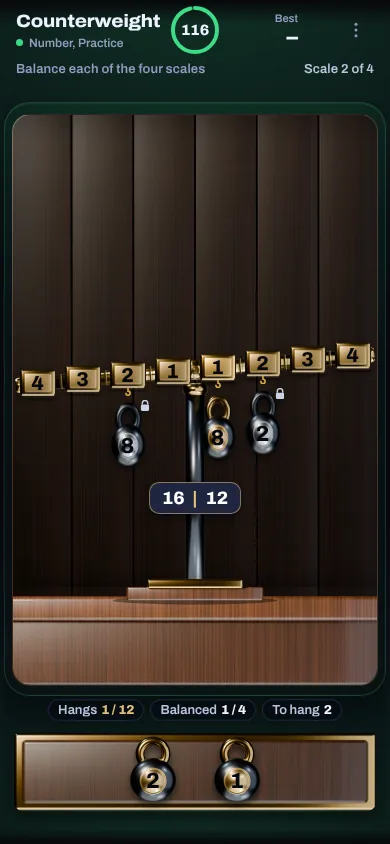
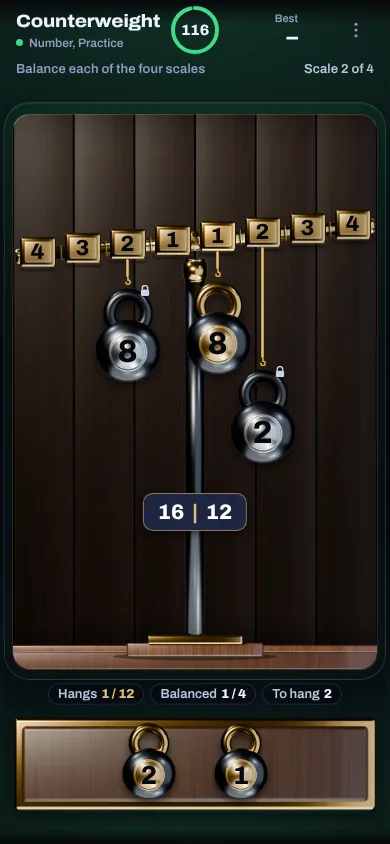
Number overhaul: Counterweight and Operator fill their space; layout pass in progress (snapshot)
Claude-Session: https://claude.ai/code/session_011WK1FfecY6GY7JmXnDQco7

Changed region(s): [[0.0308, 0.1232, 0.9846, 0.9858]]

diff --git a/src/puzzles/numline.tsx b/src/puzzles/numline.tsx
@@ -236,11 +236,11 @@ interface TapeGeom {
  * A live round's sizes (the Number overhaul's layout pass, Joe 15 Nov 2026): the line is the big element, a tall,
  * clear ruler with bold end labels and a big pin, and the number card above it small and compact. `arenaH` is the
  * arena's height; the card, the caption over it and the gaps take `NUMLINE_CARD_H` + 56 of it, the line box the rest (within
- * 250–380; the group is centred in the arena). Intros and demos keep their older sizes (140 high, a 24 px tape), so recorded touches still land.
+ * 250–520, so the card and line fill the arena; the group is centred). Intros and demos keep their older sizes (140 high, a 24 px tape), so recorded touches still land.
  */
 export const NUMLINE_CARD_H = 56;
 export function numlineLiveSizes(arenaH: number) {
-  const lineH = Math.max(250, Math.min(380, Math.round(arenaH - NUMLINE_CARD_H - 56)));
+  const lineH = Math.max(250, Math.min(520, Math.round(arenaH - NUMLINE_CARD_H - 56)));
   // The tape thickens with the room it has (72 to 92 px), the end labels with it.
   const t = Math.max(72, Math.min(92, Math.round(lineH * 0.24)));
   const label = t >= 84 ? 40 : 36;
@@ -248,8 +248,17 @@ export function numlineLiveSizes(arenaH: number) {
     lineH,
     t,
     label,
-    /** The tape's centre, a share of the box: under it the end labels, above it the pins and their labels. */
-    yShare: (lineH - (t / 2 + 8 + label + 12)) / lineH,
+    /**
+     * The tape's centre, a share of the box: above it the pins and their labels (the live pin's head and three levels
+     * of placed labels), under it the end labels; the three together sit centred in the box, so any spare height is
+     * shared above the pins and below the labels.
+     */
+    yShare: (() => {
+      const above = 88 + 2 * 24 + 24;
+      const below = t / 2 + 8 + label + 12;
+      const margin = Math.max(0, (lineH - (above + t / 2 + below)) / 2);
+      return (lineH - below - margin) / lineH;
+    })(),
     pinR: 24,
     pinRise: 88,
     placedR: 13,
@@ -293,40 +302,44 @@ export function Line({
       style={{ display: "block", overflow: "visible", ...svgStyle }}
     >
       <TapeDefs id={id} />
-      {/* The Number overhaul: the rendered satin-steel rule (docs/design/number-overhaul/source/numline.py), stretched
-          to the tape; the sprite is 360 x 36 points with the rule's body 6–30 down, so the image runs t / 24 · 36 tall. */}
-      <image
-        href={numberArt("numline", "ruler")}
-        x={left}
-        y={y - t / 2 - (6 * t) / 24}
-        width={right - left}
-        height={(36 * t) / 24}
-        preserveAspectRatio="none"
-      />
+      {/* The Number overhaul: the rendered ruler (docs/design/number-overhaul/source/numline.py), a flat bar the tape's
+          thickness tall: a dark enamel face between polished chrome edges and end caps. Drawn in three slices so only
+          the plain middle stretches, sideways; the caps keep their shape (24 x 80 points scaled to the tape). */}
+      {(() => {
+        const cap = (24 * t) / 80;
+        const top = y - t / 2;
+        return (
+          <g data-numline-ruler>
+            <image href={numberArt("numline", "ruler-m")} x={left + cap - 0.5} y={top} width={Math.max(0, right - left - 2 * cap + 1)} height={t} preserveAspectRatio="none" />
+            <image href={numberArt("numline", "ruler-l")} x={left} y={top} width={cap} height={t} preserveAspectRatio="none" />
+            <image href={numberArt("numline", "ruler-r")} x={right - cap} y={top} width={cap} height={t} preserveAspectRatio="none" />
+          </g>
+        );
+      })()}
       {minor > 0
         ? Array.from({ length: minor - 1 }, (_, i) => (i + 1) / minor).map((share) => (
             <line
               key={`m${share}`}
               data-numline-minor
               x1={x(share)}
-              y1={y - t / 2 + t * (share === 0.5 ? 0.18 : 0.3)}
+              y1={y - t / 2 + t * 0.14}
               x2={x(share)}
-              y2={y + t / 2 - t * (share === 0.5 ? 0.18 : 0.3)}
-              stroke="#14151a"
-              strokeOpacity={0.9}
+              y2={y - t / 2 + t * (share === 0.5 ? 0.6 : 0.4)}
+              stroke={share === 0.5 ? "var(--jz-gold)" : "var(--jz-white)"}
               strokeWidth={share === 0.5 ? 4 : 3}
+              strokeLinecap="square"
             />
           ))
         : null}
       {tickLabels(stage).map((tick) => (
         <g key={tick.share}>
-          {/* A crisp notch across the tape, continued below it to the label. */}
+          {/* A crisp notch down the ruler's face (white, so it reads on the enamel), continued below it to the label. */}
           <line
             x1={x(tick.share)}
-            y1={y - t / 2 - 3}
+            y1={y - t / 2 + t * 0.14}
             x2={x(tick.share)}
             y2={y + t / 2 + 6}
-            stroke="#14151a"
+            stroke="var(--jz-white)"
             strokeWidth={3}
             strokeLinecap="square"
           />

diff --git a/src/polish-number/equation.css b/src/polish-number/equation.css
@@ -349,9 +349,10 @@
 }
 [data-puzzle-play] [data-number-overhaul] .opg-board > .nov-stage {
   flex: 0 0 auto;
+  align-self: stretch;
 }
-[data-puzzle-play] [data-number-overhaul] .opg-caption {
-  font-size: 15px;
+[data-puzzle-play] [data-number-overhaul] .opg-board > .nov-stage > .opg-equation {
+  align-self: stretch;
 }
 [data-puzzle-play] [data-number-overhaul] .opg-stage-chip {
   width: 56px;

diff --git a/docs/design/number-overhaul/source/numline.py b/docs/design/number-overhaul/source/numline.py
@@ -3,9 +3,10 @@
 Lit as product shots (Joe's clarification, 15 Nov 2026: premium materials need light on them, highlights on curves
 and edges, never washed across a face or a number):
 
-  ruler       a polished chrome rail with rounded ends: a crisp highlight line along its top curve and a fainter one
-              along its underside, the steel reflecting a dark studio between them. The app stretches it to the line's
-              width (it is lit evenly along its length) and draws the bold end labels, the notches and the markers.
+  ruler       a flat ruler bar (360 x 80 points): a dark enamel face, even and clean, between polished bevelled chrome
+              edges and chrome end caps, the crisp highlights only on those; cut into ruler-l, ruler-m and ruler-r so
+              the app stretches only the plain middle, sideways (never vertically), and draws the ticks, end labels
+              and markers.
   card        the number card: deep navy lacquer under a clear coat, its rounded rim catching the light (a bright top
               edge, a soft lower one); the face itself stays dark and clean for the number. Drawn 9-slice by the app.
   pin         the live marker's head: polished champagne gold, a crisp highlight on its upper left.
@@ -51,18 +52,42 @@ def clear_lights():
 
 
 def ruler():
-    """360 x 36 points; the rail's body runs 6–30 down (the app maps that to the tape's thickness)."""
-    setup(360, 36, scale=3, samples=96)
-    world("#06080f", 0.0, hdri="studio.exr", hdri_strength=0.35)
+    """A flat ruler bar, 360 x 80 points at its largest display: a dark enamel face, even and clean so the app's ticks
+    and pins read, between polished bevelled chrome edges top and bottom and chrome end caps; the crisp highlights
+    sit only on those edges and caps. Written whole (ruler.webp) and cut into three slices the app draws so only the
+    plain middle stretches, and only sideways: ruler-l and ruler-r (the end caps, 24 points wide) and ruler-m (a
+    4-point slice of the plain middle)."""
+    setup(360, 80, scale=3, samples=128)
+    world("#06080f", 0.0, hdri="studio.exr", hdri_strength=0.12)
     clear_lights()
-    chrome = mat("chrome", "#d9dde4", 0.12, metal=1.0)
-    add_bump(chrome, 400, 0.01, stretch=(1, 30, 1), distance=0.0004)     # a faint polish grain along the rail
-    xcyl(6, 18, 348, 12, chrome, z=0, bevel=4, verts=96)
-    # A crisp line along the top curve and a softer one under it; a warm glint on the ends from the key.
-    strip(180, -260, 150, (180, 18, 0), 4, 1400, 2600)
-    strip(180, 280, 120, (180, 18, 0), 10, 1400, 700, color="#dbe5ff")
-    area(-40, -80, 120, 40, 260, "#fff4e2", target=(20, 18, 0))
-    write(GAME, "ruler")
+    chrome = mat("chrome", "#dfe3ea", 0.1, metal=1.0)
+    enamel = mat("enamel", "#0c1220", 0.55, coat=0.12, coat_rough=0.35, spec=0.25)
+    add_bump(enamel, 300, 0.006, distance=0.0003)
+    # The face, sunk a little between the edges.
+    box(10, 9, 340, 62, 6, enamel, r=1.5, z=0)
+    # Bevelled chrome edges: rounded rails along the top and the bottom, a little proud of the face.
+    xcyl(8, 8.5, 344, 6, chrome, z=3, bevel=2, verts=64)
+    xcyl(8, 71.5, 344, 6, chrome, z=3, bevel=2, verts=64)
+    # End caps: chrome blocks with bevels across the ends.
+    box(2, 2, 14, 76, 12, chrome, r=4, z=-1)
+    box(344, 2, 14, 76, 12, chrome, r=4, z=-1)
+    # Long lights along the rails: the top rail's upper curve and the bottom rail's lower curve take a crisp line; a
+    # low raking key glints on the caps. Nothing faces the enamel square on.
+    strip(180, -320, 150, (180, 8, 0), 4, 1400, 2400)
+    strip(180, 420, 130, (180, 72, 0), 8, 1400, 900, color="#dbe5ff")
+    area(-30, 40, 40, 16, 120, "#fff4e2", target=(8, 40, 0))
+    area(390, 40, 40, 16, 80, "#dbe5ff", target=(352, 40, 0))
+    # A soft, even fill straight down the face's length, so the enamel reads as a dark surface, not a void.
+    strip(180, 40, 400, (180, 40, 0), 60, 900, 35, color="#c9d4ff")
+    out = write(GAME, "ruler")
+    from PIL import Image
+    im = Image.open(out).convert("RGBA")
+    k = im.height / 80
+    cap, mid = round(24 * k), im.width // 2
+    im.crop((0, 0, cap, im.height)).save(out.replace("ruler.webp", "ruler-l.webp"), "WEBP", quality=88, method=6)
+    im.crop((im.width - cap, 0, im.width, im.height)).save(out.replace("ruler.webp", "ruler-r.webp"), "WEBP", quality=88, method=6)
+    im.crop((mid - round(2 * k), 0, mid + round(2 * k), im.height)).save(out.replace("ruler.webp", "ruler-m.webp"), "WEBP", quality=92, method=6)
+    print("cut ruler-l, ruler-m, ruler-r")
 
 
 def card():
